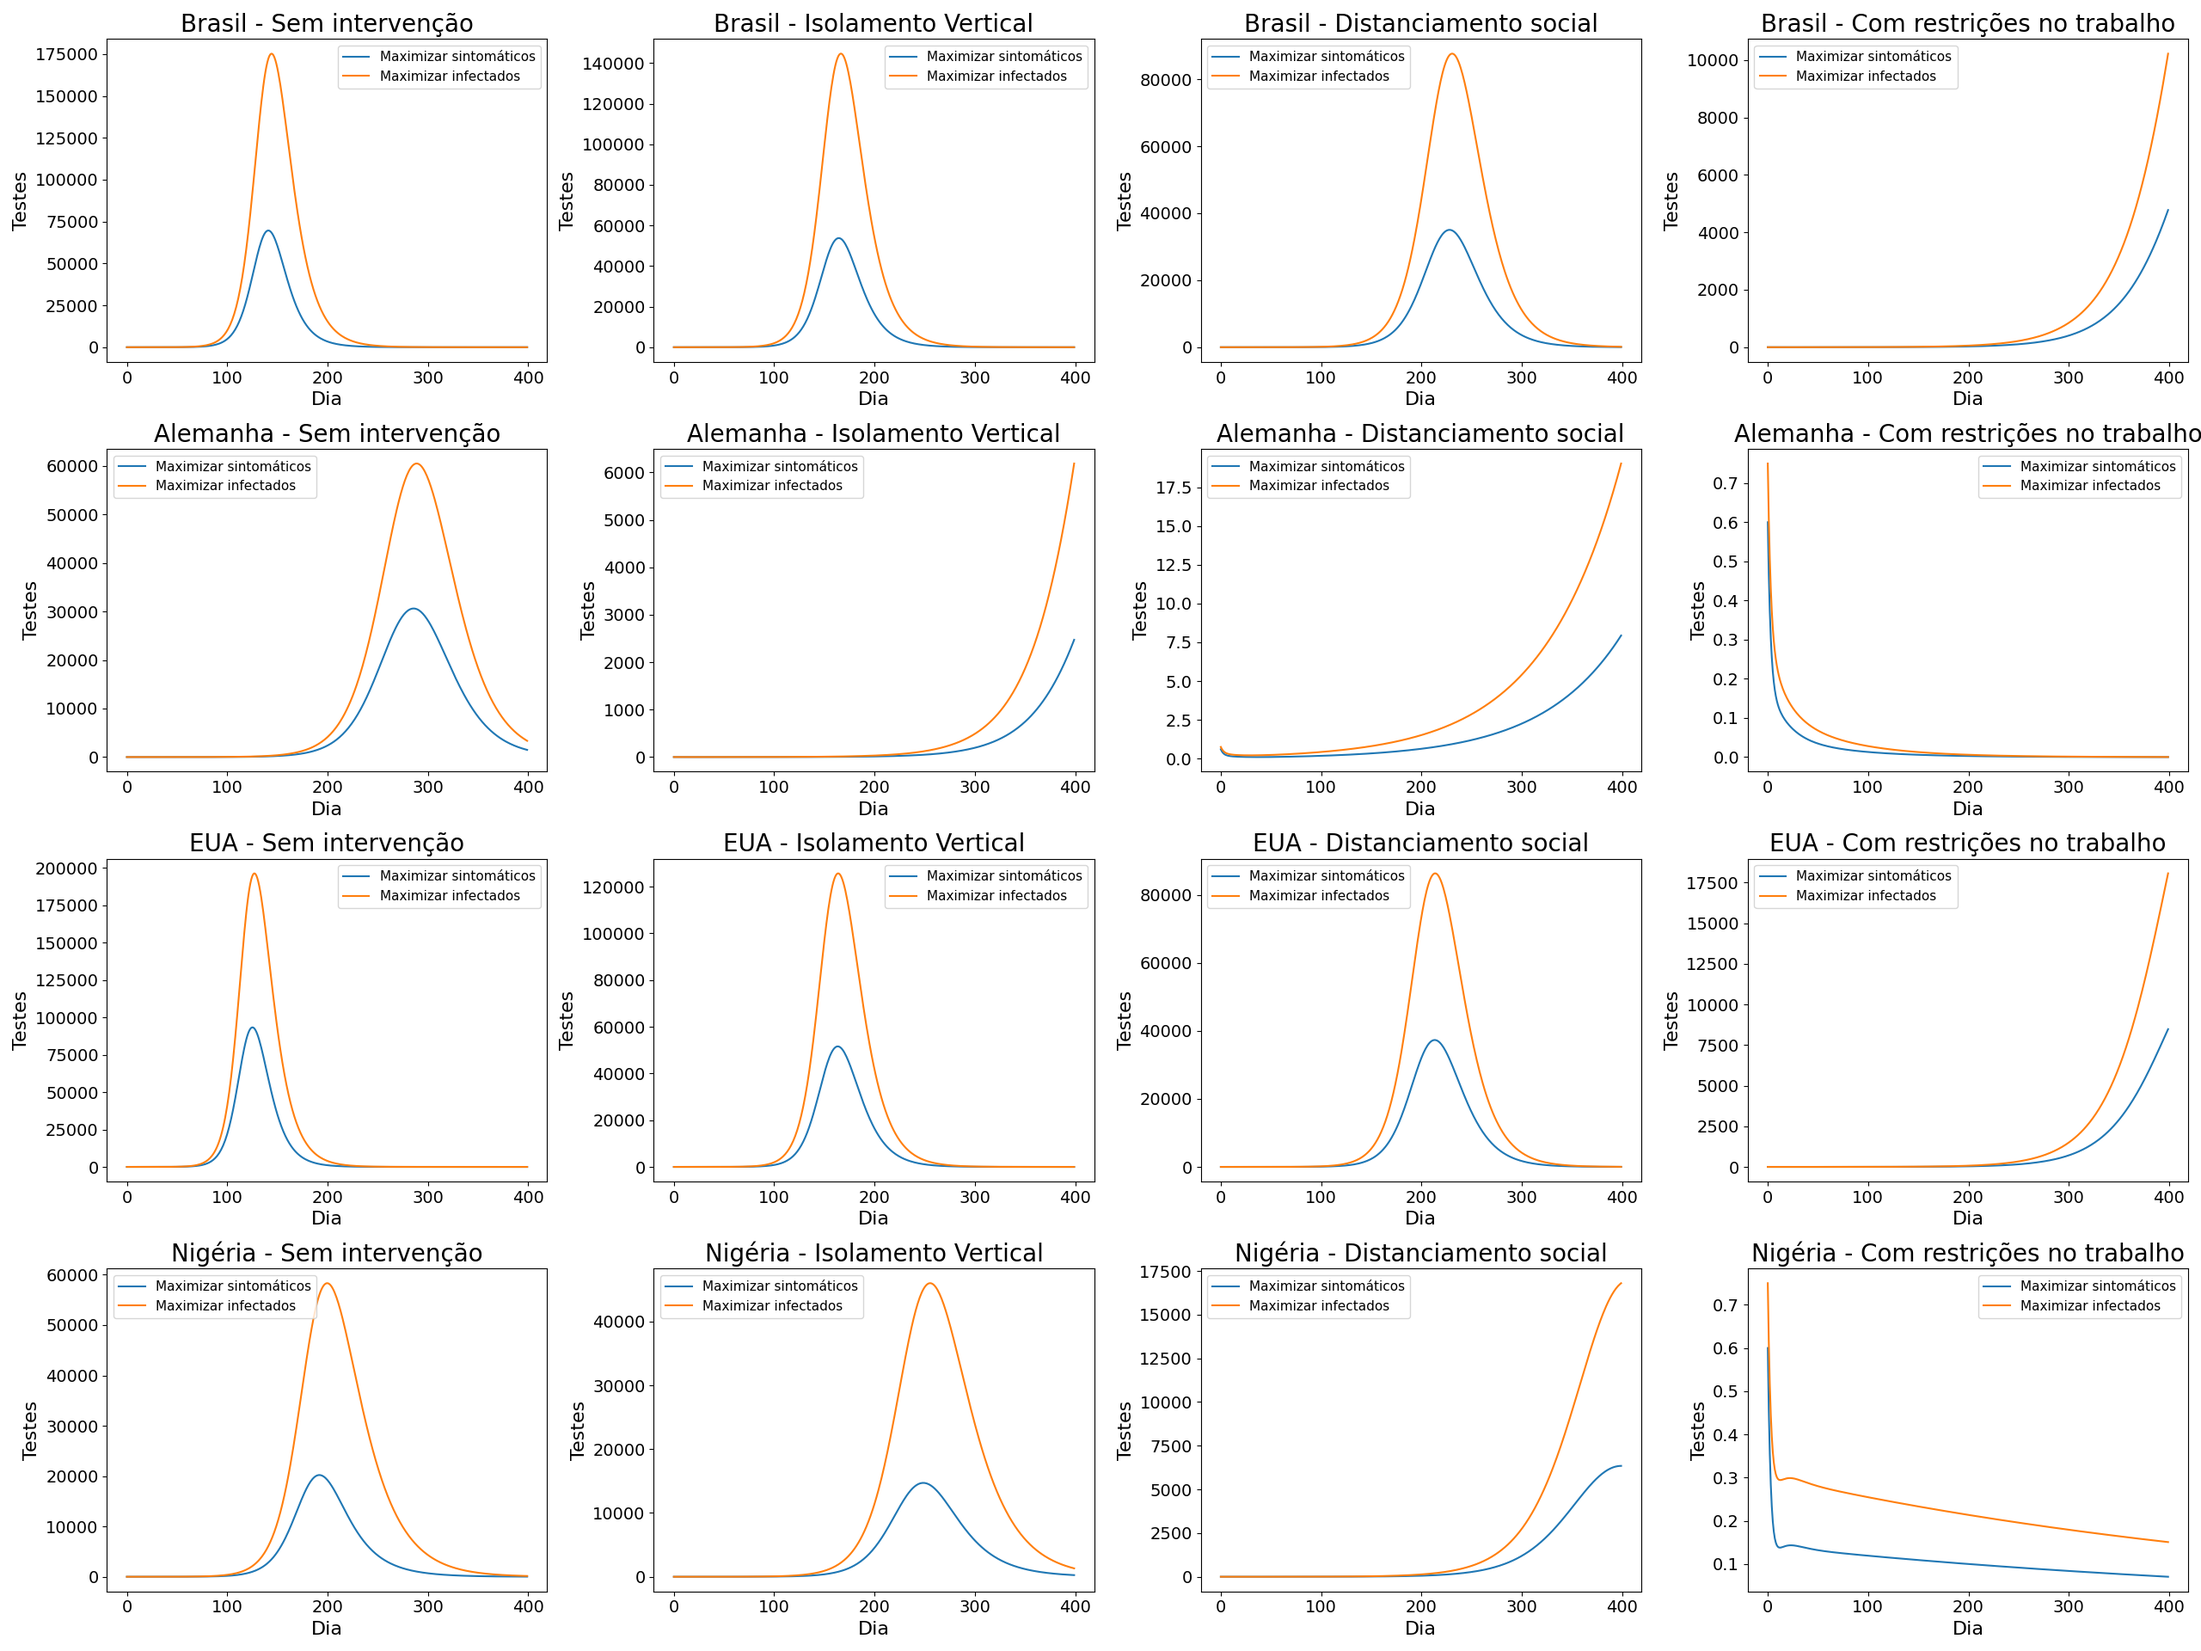
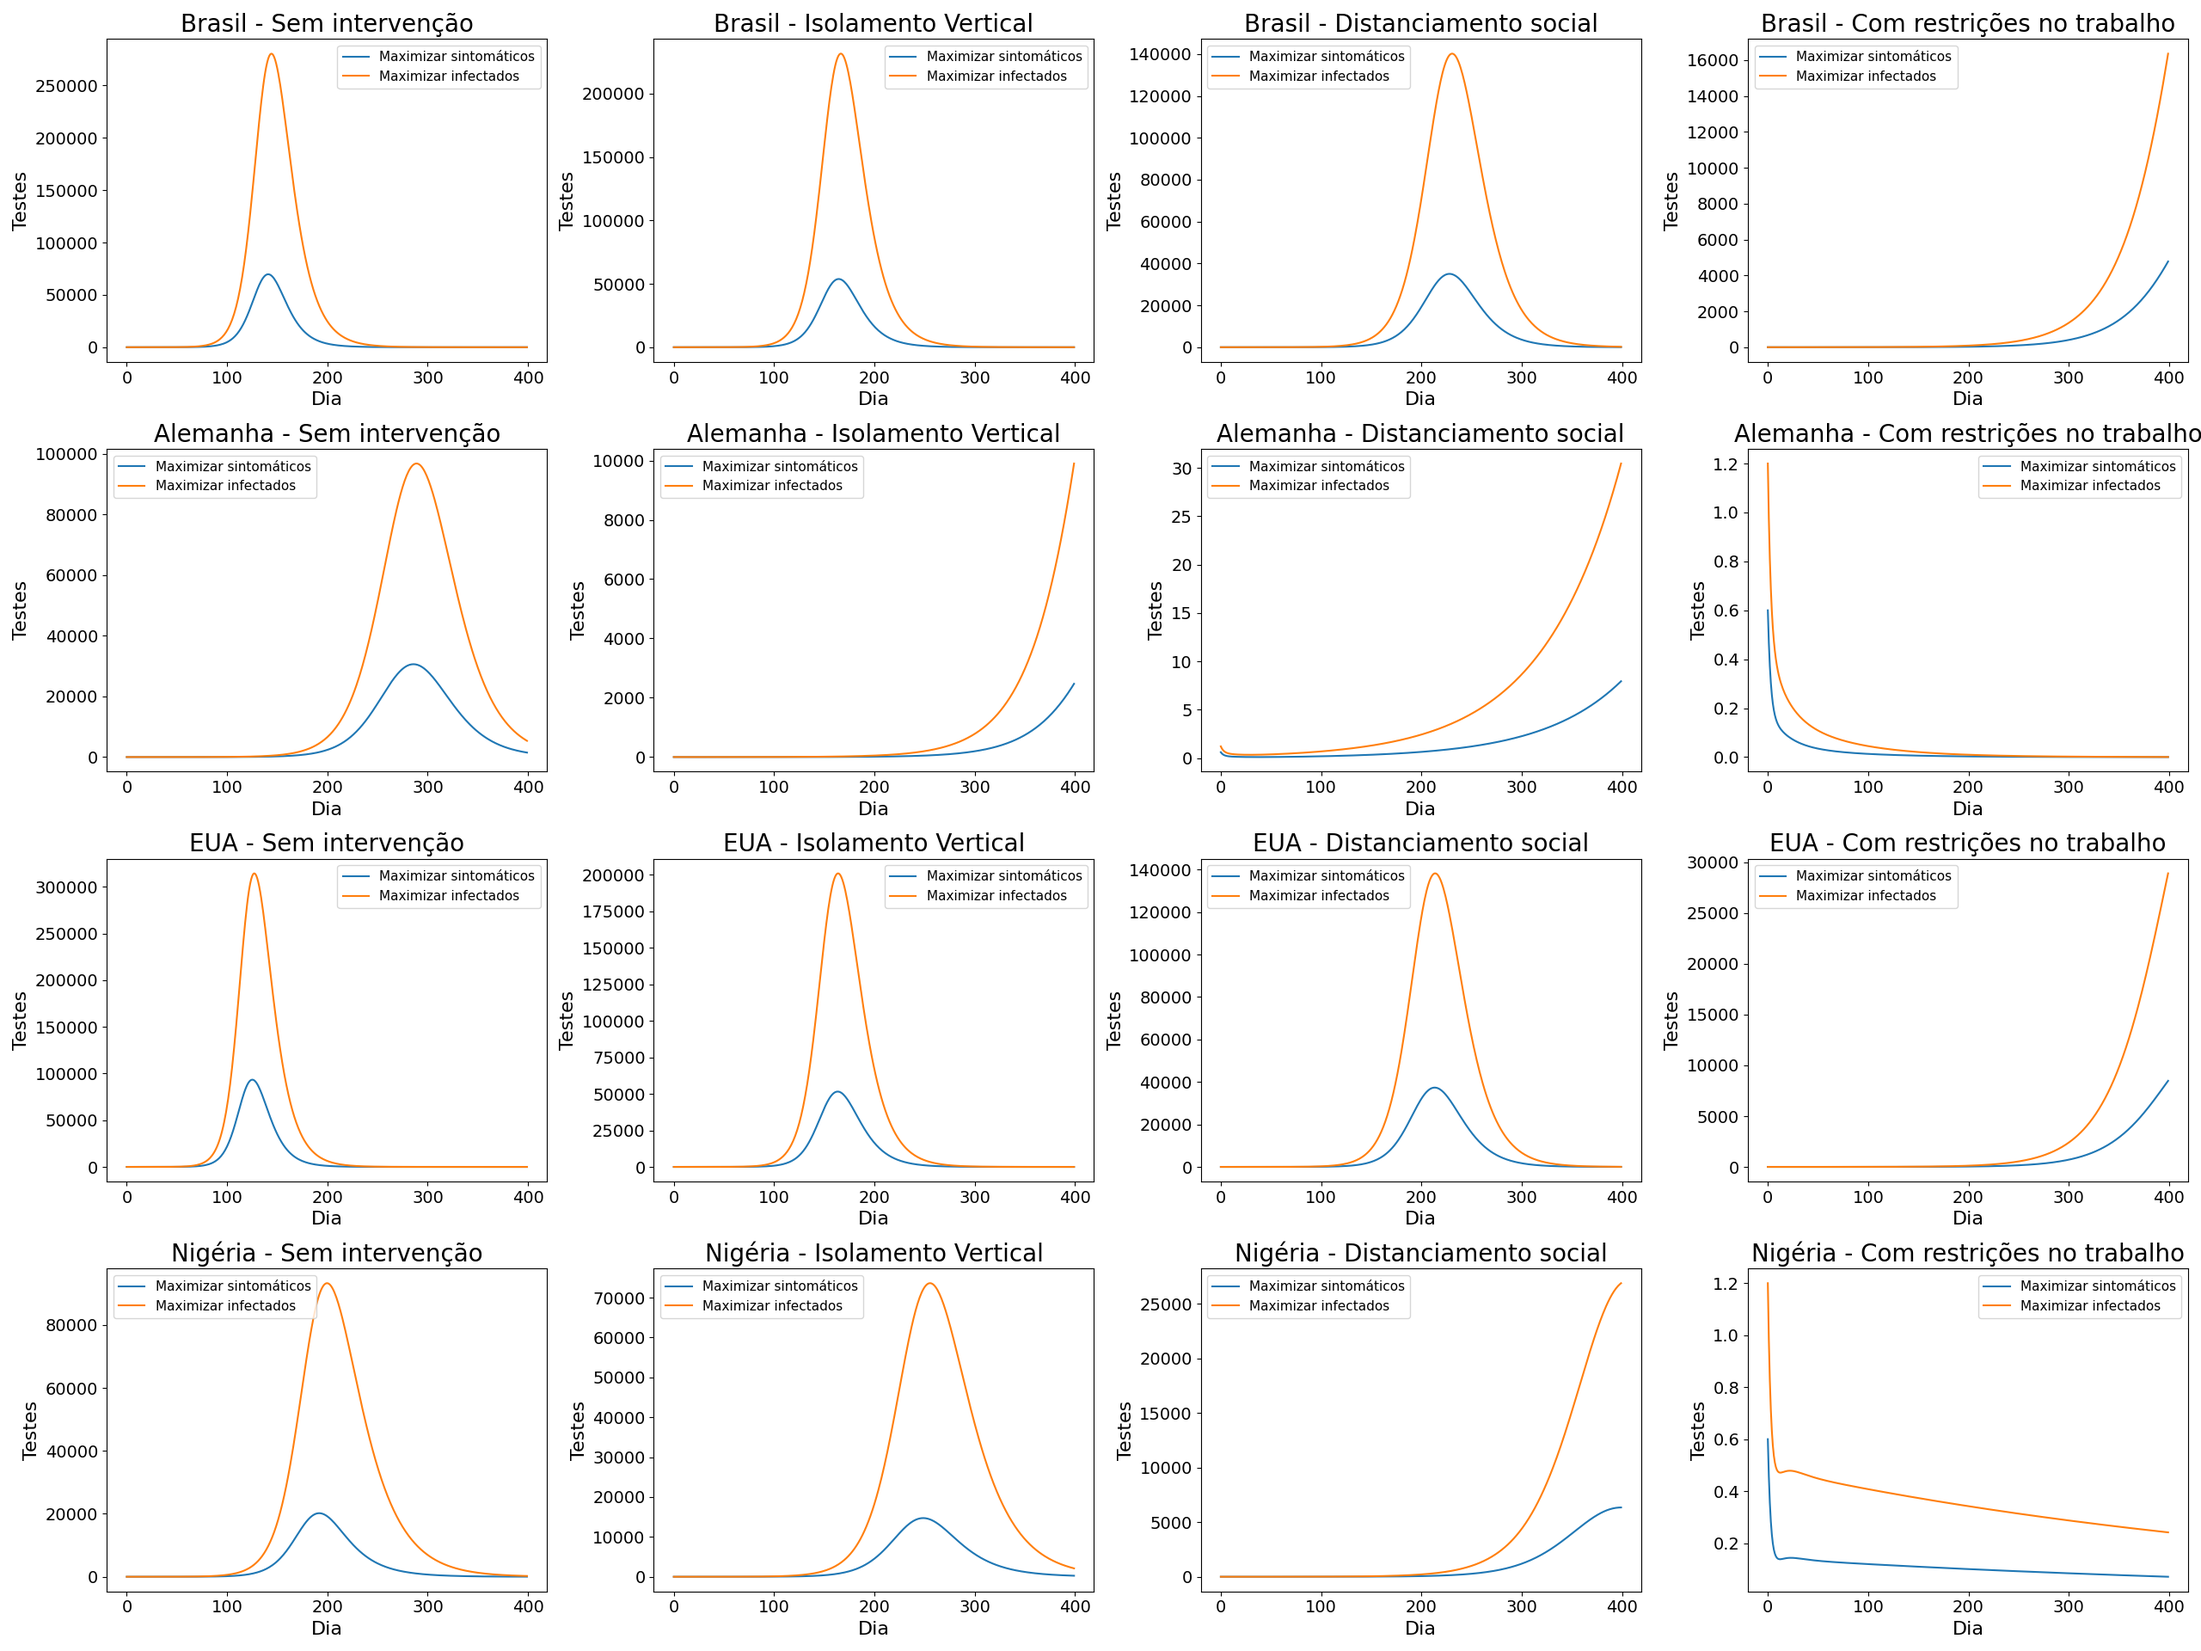
fix test probability

diff --git a/scripts/04_PTest_for_Fixed_xI.py b/scripts/04_PTest_for_Fixed_xI.py
@@ -14,7 +14,7 @@ interventions = [0, 6, 8, 9]
 default_figsize = [6.4, 4.8]
 
 P_I_Test = 0.5
-Pinfec = 0.8
+Pinfec = 0.5
 
 xI = 0.3
 xA = 0.3
